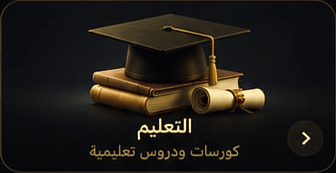
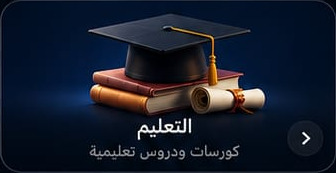
إرجاع بطاقات الأدوات إلى ألوانها الأصلية بأمر المالك
Claude-Session: https://claude.ai/code/session_01J9nouLDDGN3kdVK1cNW9nu

diff --git a/js/tool-card-images.js b/js/tool-card-images.js
@@ -28,7 +28,7 @@
   var FULL_AR_IDS = ['btnVideoMaker','btnQuickTemplates','btnPortraitStyle','btnStudioAI','btnFashionAI','btnDesignAI','btnAdStudio','btnStocks','btnOmranTV','btnQibla','btnExpense','btnOmranEdu','btnConstruction','btnReligion','btnCV','btnDocs','btnFeedback','btnEmailAssist'];
   function isAr(){ return String(document.documentElement.lang || 'ar').toLowerCase().indexOf('ar') === 0; }
   function srcFor(id){
-    if(isAr() && FULL_AR_IDS.indexOf(id) !== -1) return '/assets/tool-cards/full/' + id + '.png?v=3';
+    if(isAr() && FULL_AR_IDS.indexOf(id) !== -1) return '/assets/tool-cards/full/' + id + '.png?v=4';
     return TOOL_PHOTOS[id];
   }
 

diff --git a/js/ui-wiring.js b/js/ui-wiring.js
@@ -208,7 +208,7 @@ try{ sessionStorage.removeItem('omranBootRetry'); }catch(e){ /* guard-ok: بلا
   }
   if(!document.querySelector('script[data-omran-tool-photos]')){
     var js = document.createElement('script');
-    js.src = '/js/tool-card-images.js?v=6';
+    js.src = '/js/tool-card-images.js?v=7';
     js.async = false;
     js.setAttribute('data-omran-tool-photos', '');
     document.head.appendChild(js);
